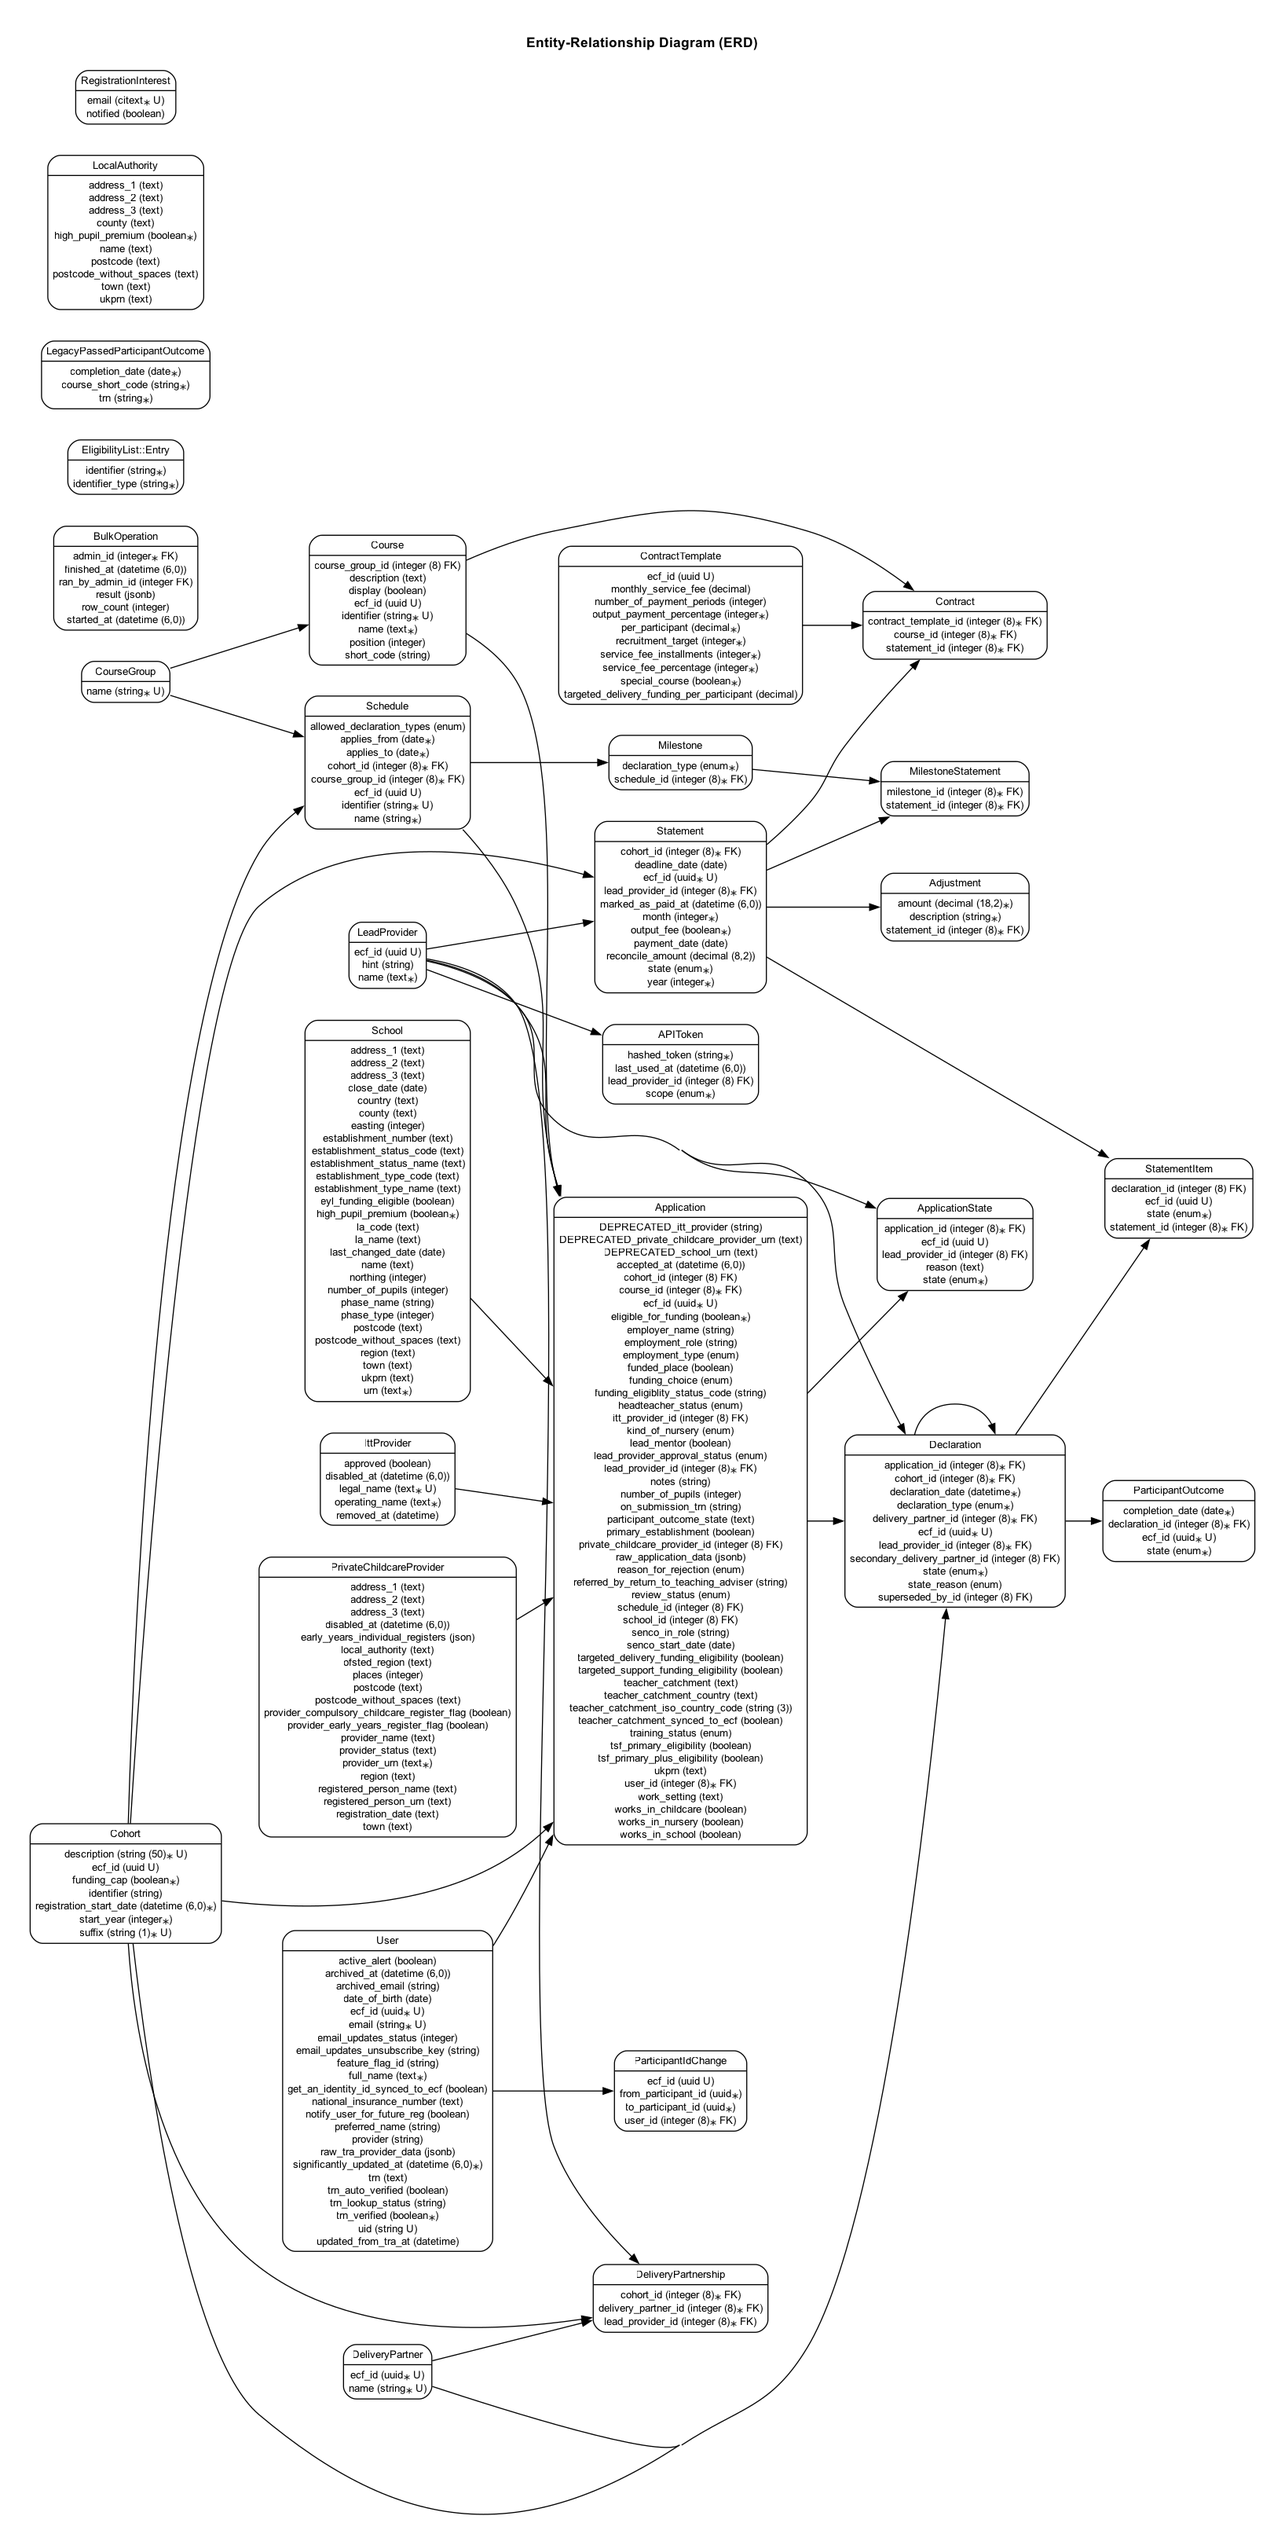
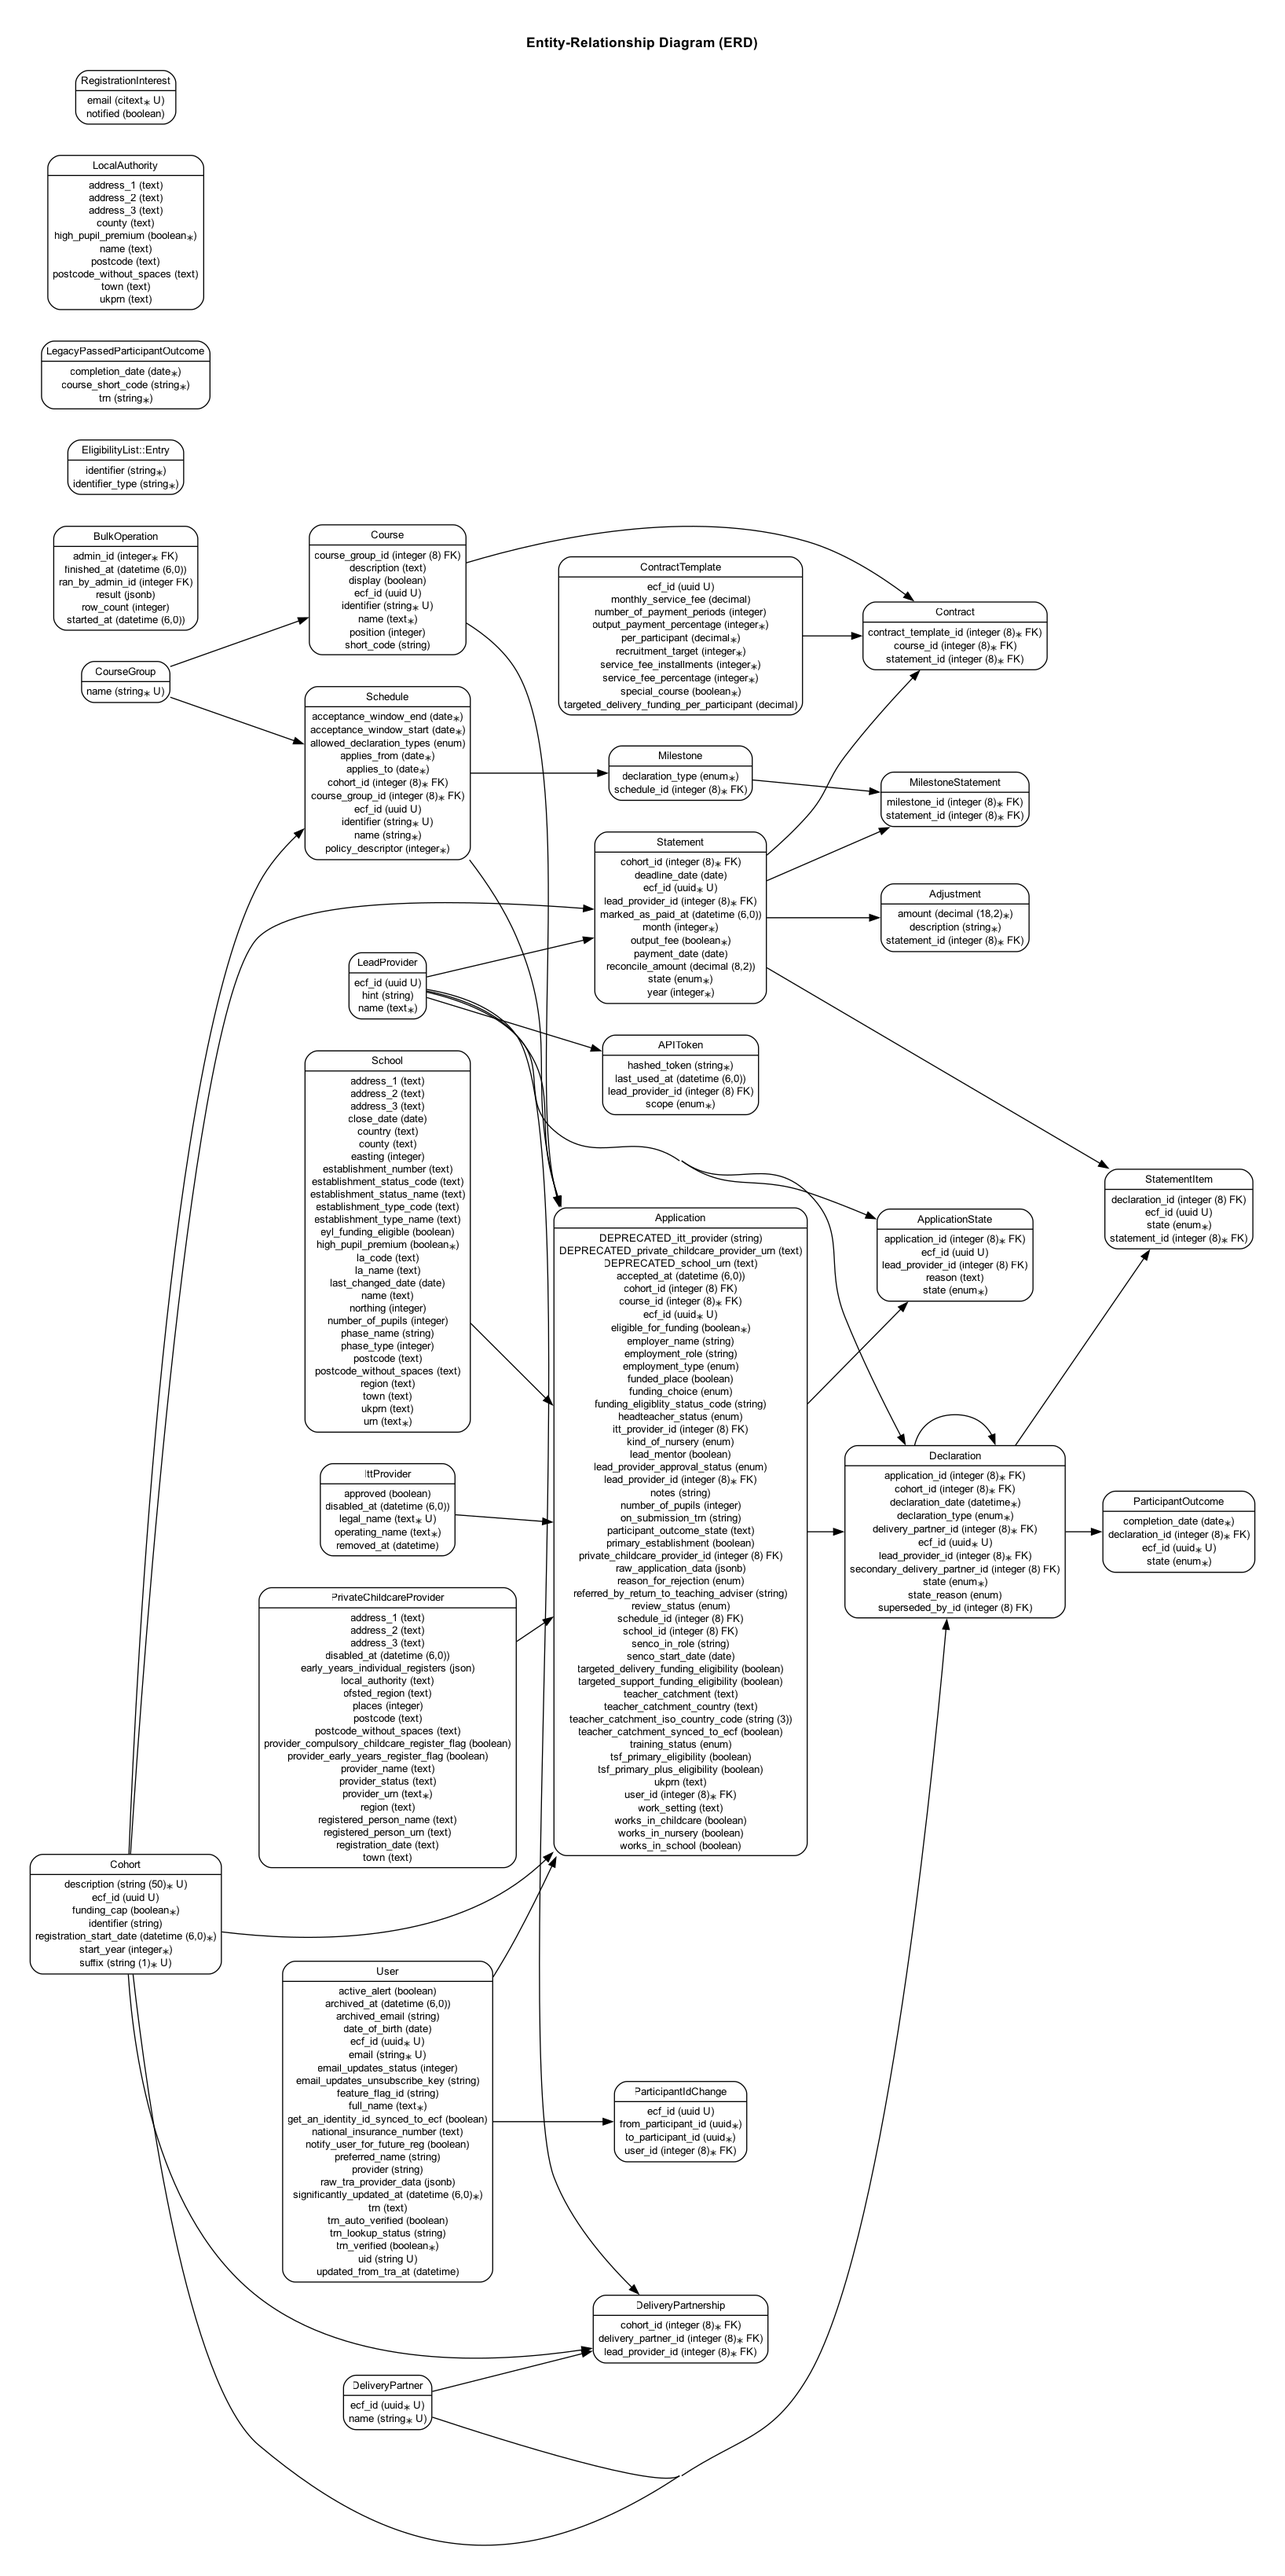
[NPQ-3343] add fields to schedules (#3063)
### Context

Ticket: https://dfedigital.atlassian.net/browse/NPQ-3343

### Changes proposed in this pull request

added to schedules:
* policy_descriptor
* acceptance_window_start
* acceptance_window_end

and updated the admin pages to display them, and allow the to be set.

diff --git a/spec/models/schedule_spec.rb b/spec/models/schedule_spec.rb
@@ -1,17 +1,55 @@
 require "rails_helper"
 
 RSpec.describe Schedule, type: :model do
-  let(:schedule) { build(:schedule, applies_from: 1.month.ago, applies_to: 1.month.from_now) }
+  let(:schedule) do
+    build(
+      :schedule,
+      applies_from: 1.month.ago,
+      applies_to: 1.month.from_now,
+      policy_descriptor: 5,
+      acceptance_window_start: 2.months.ago,
+      acceptance_window_end: 1.month.ago,
+    )
+  end
 
   subject { schedule }
 
   describe "validations" do
-    it { is_expected.to validate_presence_of(:name) }
-    it { is_expected.to validate_presence_of(:identifier) }
-    it { is_expected.to validate_uniqueness_of(:identifier).scoped_to(:cohort_id) }
-    it { is_expected.to validate_presence_of(:applies_from) }
-    it { is_expected.to validate_presence_of(:applies_to) }
-    it { is_expected.to validate_uniqueness_of(:ecf_id).case_insensitive.with_message("ECF ID must be unique").allow_nil }
+    context "with new record" do
+      it { is_expected.to validate_presence_of(:name) }
+      it { is_expected.to validate_presence_of(:identifier) }
+      it { is_expected.to validate_uniqueness_of(:identifier).scoped_to(:cohort_id) }
+      it { is_expected.to validate_presence_of(:applies_from) }
+      it { is_expected.to validate_presence_of(:applies_to) }
+      it { is_expected.to validate_uniqueness_of(:ecf_id).case_insensitive.with_message("ECF ID must be unique").allow_nil }
+      it { is_expected.to validate_numericality_of(:policy_descriptor).only_integer.is_greater_than(0) }
+      it { is_expected.to validate_presence_of(:policy_descriptor) }
+      it { is_expected.to validate_presence_of(:acceptance_window_start) }
+      it { is_expected.to validate_presence_of(:acceptance_window_end) }
+      it { is_expected.to be_valid }
+    end
+
+    context "with an existing schedule with policy_descriptor, acceptance_window_start and acceptance_window_end" do
+      let(:schedule) { create(:schedule, policy_descriptor: 5, acceptance_window_start: 1.day.ago, acceptance_window_end: 2.days.ago) }
+
+      it { is_expected.to validate_presence_of(:policy_descriptor) }
+      it { is_expected.to validate_numericality_of(:policy_descriptor).only_integer.is_greater_than(0) }
+      it { is_expected.to validate_presence_of(:acceptance_window_start) }
+      it { is_expected.to validate_presence_of(:acceptance_window_end) }
+    end
+
+    context "with an existing schedule without policy_descriptor, acceptance_window_start and acceptance_window_end" do
+      let(:schedule) do
+        build(:schedule,
+              policy_descriptor: nil,
+              acceptance_window_start: nil,
+              acceptance_window_end: nil).tap { |s| s.save(validate: false) }
+      end
+
+      it { is_expected.not_to validate_presence_of(:policy_descriptor) }
+      it { is_expected.not_to validate_presence_of(:acceptance_window_start) }
+      it { is_expected.not_to validate_presence_of(:acceptance_window_end) }
+    end
   end
 
   describe "associations" do

diff --git a/spec/features/npq_separation/admin/schedules_spec.rb b/spec/features/npq_separation/admin/schedules_spec.rb
@@ -13,7 +13,7 @@ RSpec.feature "Managing schedules", :ecf_api_disabled, :no_js, type: :feature do
   let!(:schedules) do
     [
       create(:schedule, :npq_ehco_december, cohort:),
-      create(:schedule, :npq_aso_december, cohort:, allowed_declaration_types: %w[started completed]),
+      create(:schedule, :npq_aso_december, cohort:, allowed_declaration_types: %w[started completed], policy_descriptor: 11),
     ]
   end
 
@@ -42,6 +42,7 @@ RSpec.feature "Managing schedules", :ecf_api_disabled, :no_js, type: :feature do
       expect(sl).to have_summary_item("Cohort", "2026 to 2027")
       expect(sl).to have_summary_item("Name", schedule.name)
       expect(sl).to have_summary_item("Identifier", schedule.identifier)
+      expect(sl).to have_summary_item("Policy descriptor", 11)
       expect(sl).to have_summary_item("Course group", schedule.course_group.name)
       expect(sl).to have_summary_item("Applies from", long_date(schedule.applies_from))
       expect(sl).to have_summary_item("Applies to", long_date(schedule.applies_to))
@@ -130,6 +131,7 @@ private
   def fill_in_schedule_form(course_group)
     fill_in "Name", with: "name"
     fill_in "Identifier", with: "identifier"
+    fill_in "Policy descriptor", with: "42"
     select course_group.name, from: "Course group"
 
     fieldsets = all("fieldset")
@@ -146,15 +148,30 @@ private
       fill_in "Year", with: "2026"
     end
 
+    within(fieldsets[2]) do
+      fill_in "Day", with: "5"
+      fill_in "Month", with: "6"
+      fill_in "Year", with: "2026"
+    end
+
+    within(fieldsets[3]) do
+      fill_in "Day", with: "7"
+      fill_in "Month", with: "8"
+      fill_in "Year", with: "2026"
+    end
+
     uncheck "retained-2", visible: :all
   end
 
   def expect_filled_in_schedule_attributes(schedule, course_group)
     expect(schedule.name).to eq("name")
     expect(schedule.identifier).to eq("identifier")
+    expect(schedule.policy_descriptor).to eq(42)
     expect(schedule.course_group).to eq(course_group)
     expect(schedule.applies_from).to eq(Date.new(2026, 2, 1))
     expect(schedule.applies_to).to eq(Date.new(2026, 4, 3))
+    expect(schedule.acceptance_window_start).to eq(Date.new(2026, 6, 5))
+    expect(schedule.acceptance_window_end).to eq(Date.new(2026, 8, 7))
     expect(schedule.allowed_declaration_types).to eq(%w[started retained-1 completed])
   end
 

diff --git a/db/seeds/base/add_schedules.rb b/db/seeds/base/add_schedules.rb
@@ -7,21 +7,29 @@
 }.each do |start_year, schedules|
   cohort = Cohort.find_by(start_year:, suffix: "a")
   schedules.each do |schedule_identifier|
-    FactoryBot.create(:schedule, schedule_identifier, cohort:, change_applies_dates: false)
+    FactoryBot.build(:schedule, schedule_identifier, cohort:, change_applies_dates: false).save(validate: false)
   end
 end
 
 Cohort.where(start_year: 2025..).find_each do |cohort|
-  %i[
-    npq_ehco_december
-    npq_ehco_june
-    npq_ehco_march
-    npq_ehco_november
-    npq_leadership_autumn
-    npq_leadership_spring
-    npq_specialist_autumn
-    npq_specialist_spring
-  ].each do |schedule_identifier|
-    FactoryBot.create(:schedule, schedule_identifier, cohort:, change_applies_dates: false)
+  {
+    npq_ehco_december: 9,
+    npq_ehco_june: 8,
+    npq_ehco_march: 8,
+    npq_ehco_november: 9,
+    npq_leadership_autumn: 9,
+    npq_leadership_spring: 8,
+    npq_specialist_autumn: 9,
+    npq_specialist_spring: 8,
+  }.each do |schedule_identifier, policy_descriptor|
+    FactoryBot.create(
+      :schedule,
+      schedule_identifier,
+      cohort:,
+      change_applies_dates: false,
+      policy_descriptor: policy_descriptor + (cohort.start_year - 2025),
+      acceptance_window_start: Date.new(cohort.start_year, 1, 1),
+      acceptance_window_end: Date.new(cohort.start_year, 12, 1),
+    )
   end
 end

diff --git a/db/schema.rb b/db/schema.rb
@@ -10,7 +10,7 @@
 #
 # It's strongly recommended that you check this file into your version control system.
 
-ActiveRecord::Schema[7.2].define(version: 2025_11_13_114818) do
+ActiveRecord::Schema[7.2].define(version: 2025_11_28_113435) do
   # These are extensions that must be enabled in order to support this database
   enable_extension "btree_gin"
   enable_extension "citext"
@@ -524,7 +524,11 @@ ActiveRecord::Schema[7.2].define(version: 2025_11_13_114818) do
     t.datetime "created_at", null: false
     t.datetime "updated_at", null: false
     t.uuid "ecf_id"
+    t.integer "policy_descriptor"
+    t.date "acceptance_window_start"
+    t.date "acceptance_window_end"
     t.index ["cohort_id"], name: "index_schedules_on_cohort_id"
+    t.index ["course_group_id", "acceptance_window_start", "acceptance_window_end"], name: "idx_on_course_group_id_acceptance_window_start_acce_f27f9cb6b0"
     t.index ["course_group_id"], name: "index_schedules_on_course_group_id"
     t.index ["ecf_id"], name: "index_schedules_on_ecf_id", unique: true
     t.index ["identifier", "cohort_id"], name: "index_schedules_on_identifier_and_cohort_id", unique: true

diff --git a/app/controllers/npq_separation/admin/schedules_controller.rb b/app/controllers/npq_separation/admin/schedules_controller.rb
@@ -27,7 +27,7 @@ class NpqSeparation::Admin::SchedulesController < NpqSeparation::AdminController
   def update
     if @schedule.update(schedule_params)
       flash[:success] = "Schedule updated"
-      redirect_to npq_separation_admin_cohort_path(cohort)
+      redirect_to npq_separation_admin_cohort_schedule_path(cohort, @schedule)
     else
       render :form, status: :unprocessable_entity
     end
@@ -48,7 +48,17 @@ class NpqSeparation::Admin::SchedulesController < NpqSeparation::AdminController
 private
 
   def schedule_params
-    params.require(:schedule).permit(:course_group_id, :name, :identifier, :applies_from, :applies_to, allowed_declaration_types: [])
+    params.require(:schedule).permit(
+      :course_group_id,
+      :name,
+      :identifier,
+      :policy_descriptor,
+      :applies_from,
+      :applies_to,
+      :acceptance_window_start,
+      :acceptance_window_end,
+      allowed_declaration_types: [],
+    )
   end
 
   def schedule

diff --git a/app/models/schedule.rb b/app/models/schedule.rb
@@ -27,6 +27,9 @@ class Schedule < ApplicationRecord
   validates :ecf_id, uniqueness: { case_sensitive: false }, allow_nil: true
   validates :applies_from, presence: true
   validates :applies_to, presence: true
+  validates :acceptance_window_start, presence: true, if: -> { new_record? || acceptance_window_start_was }
+  validates :acceptance_window_end, presence: true, if: -> { new_record? || acceptance_window_end_was }
+  validates :policy_descriptor, presence: true, numericality: { only_integer: true, greater_than: 0 }, if: -> { new_record? || policy_descriptor_was }
 
   def self.allowed_declaration_types
     Declaration.declaration_types.keys

diff --git a/spec/requests/npq_separation/admin/schedules_controller_spec.rb b/spec/requests/npq_separation/admin/schedules_controller_spec.rb
@@ -51,7 +51,7 @@ RSpec.describe NpqSeparation::Admin::SchedulesController, :ecf_api_disabled, typ
     describe "#update" do
       before { patch npq_separation_admin_cohort_schedule_path(cohort, schedule), params: valid_params }
 
-      it { is_expected.to redirect_to npq_separation_admin_cohort_path(cohort) }
+      it { is_expected.to redirect_to npq_separation_admin_cohort_schedule_path(cohort, schedule) }
 
       it "flashes success" do
         expect(flash[:success]).to match(/Schedule updated/i)

diff --git a/db/migrate/20251128113435_add_policy_descriptor_and_acceptance_dates_to_schedules.rb b/db/migrate/20251128113435_add_policy_descriptor_and_acceptance_dates_to_schedules.rb
@@ -1,0 +1,11 @@
+class AddPolicyDescriptorAndAcceptanceDatesToSchedules < ActiveRecord::Migration[7.2]
+  disable_ddl_transaction!
+
+  def change
+    add_column :schedules, :policy_descriptor, :integer
+    add_column :schedules, :acceptance_window_start, :date
+    add_column :schedules, :acceptance_window_end, :date
+
+    add_index :schedules, %i[course_group_id acceptance_window_start acceptance_window_end], algorithm: :concurrently
+  end
+end

diff --git a/spec/factories/schedules.rb b/spec/factories/schedules.rb
@@ -15,6 +15,10 @@ FactoryBot.define do
 
     allowed_declaration_types { %w[started retained-1 retained-2 completed] }
 
+    policy_descriptor { 1 }
+    acceptance_window_start { Date.new(cohort.start_year, 1, 1) }
+    acceptance_window_end { Date.new(cohort.start_year, 12, 31) }
+
     initialize_with do
       Schedule.find_by(cohort:, identifier:) || new(**attributes)
     end
